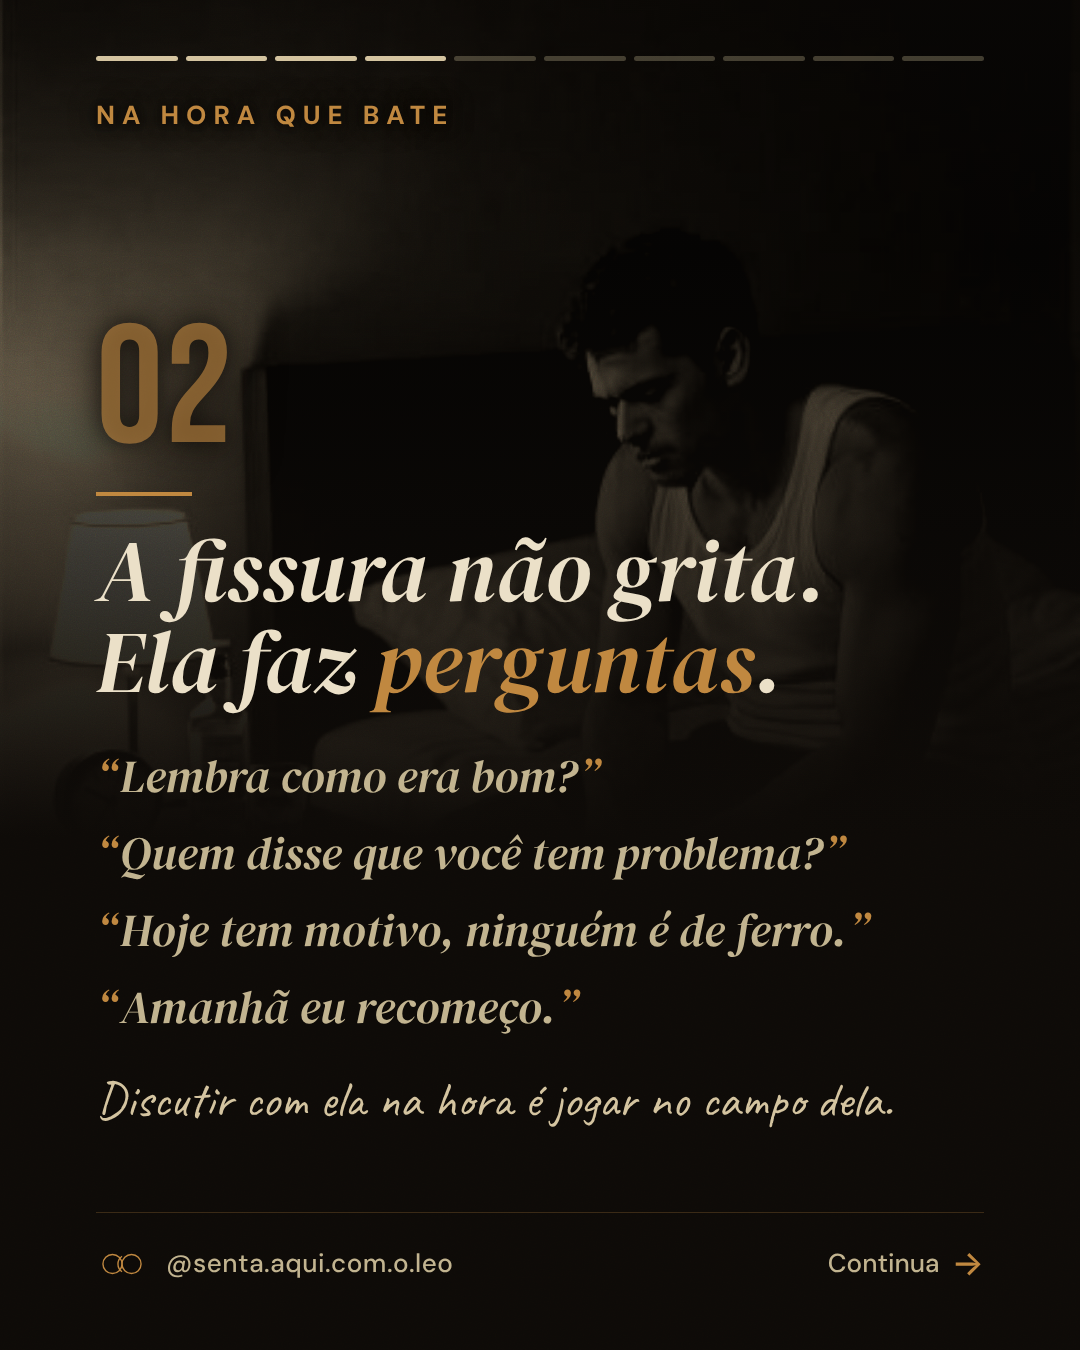
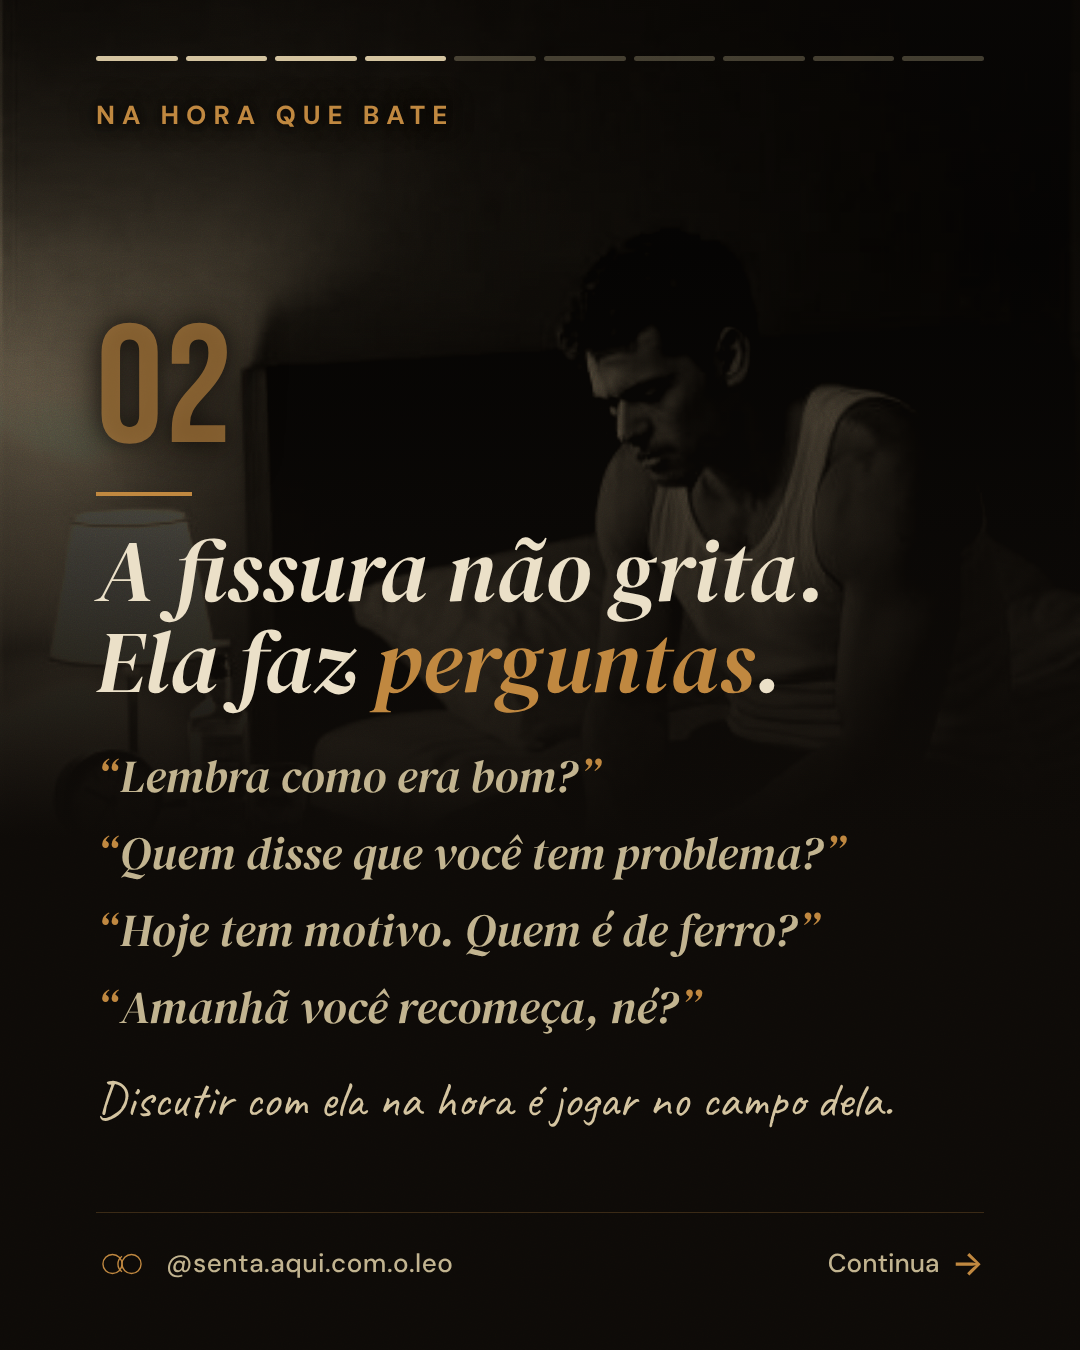
Fix SocialBee version: merged craving slide and slide 5 crop
- Merged slide 4: the title promises perguntas, so the two lines from
  the dropped negotiation slide are now questions in the craving's
  voice ("Hoje tem motivo. Quem é de ferro?", "Amanhã você recomeça,
  né?").
- Slide 5: background moved so the headline no longer touches the
  woman's chin at the shorter 4:5 height.

Claude-Session: https://claude.ai/code/session_01MtrnZtMMhZHKAaUpjjmgJu

Changed region(s): [[0.275, 0.6533, 0.7944, 0.7778]]

diff --git a/carrossel/carrossel 5 plano nao promessa/fonte/slides-4x5.js b/carrossel/carrossel 5 plano nao promessa/fonte/slides-4x5.js
@@ -45,8 +45,8 @@ const SLIDES = [
   "list": [
    "Lembra como era bom?",
    "Quem disse que você tem problema?",
-   "Hoje tem motivo, ninguém é de ferro.",
-   "Amanhã eu recomeço."
+   "Hoje tem motivo. Quem é de ferro?",
+   "Amanhã você recomeça, né?"
   ],
   "listStyle": "quote",
   "note": "Discutir com ela na hora é jogar no campo dela.",
@@ -68,7 +68,7 @@ const SLIDES = [
   "listStyle": "dot",
   "note": "Escreve num dia calmo, de preferência com alguém.",
   "bg": "adolecente_asking_for_help.jpg",
-  "bgPos": "50% 30%"
+  "bgPos": "50% 36%"
  },
  {
   "type": "item",
